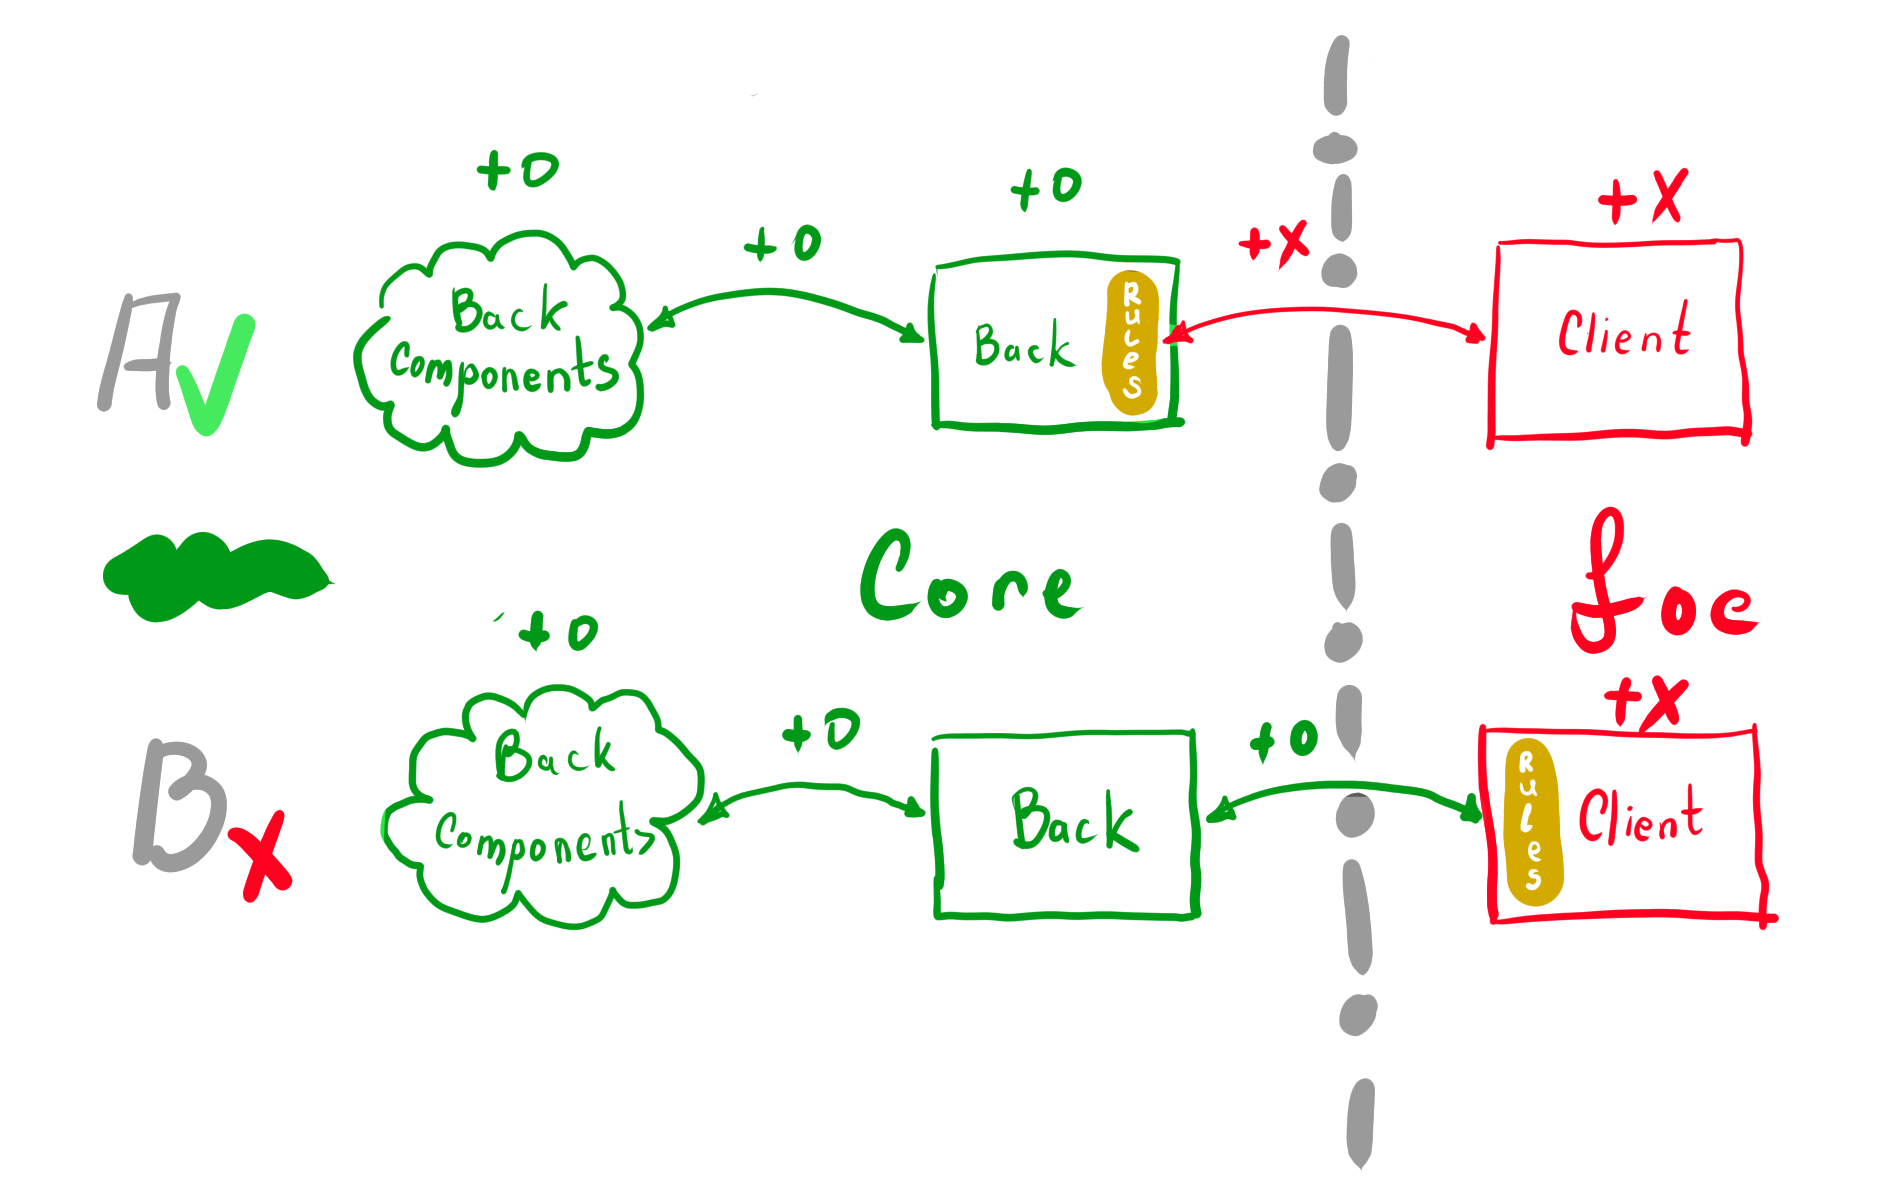
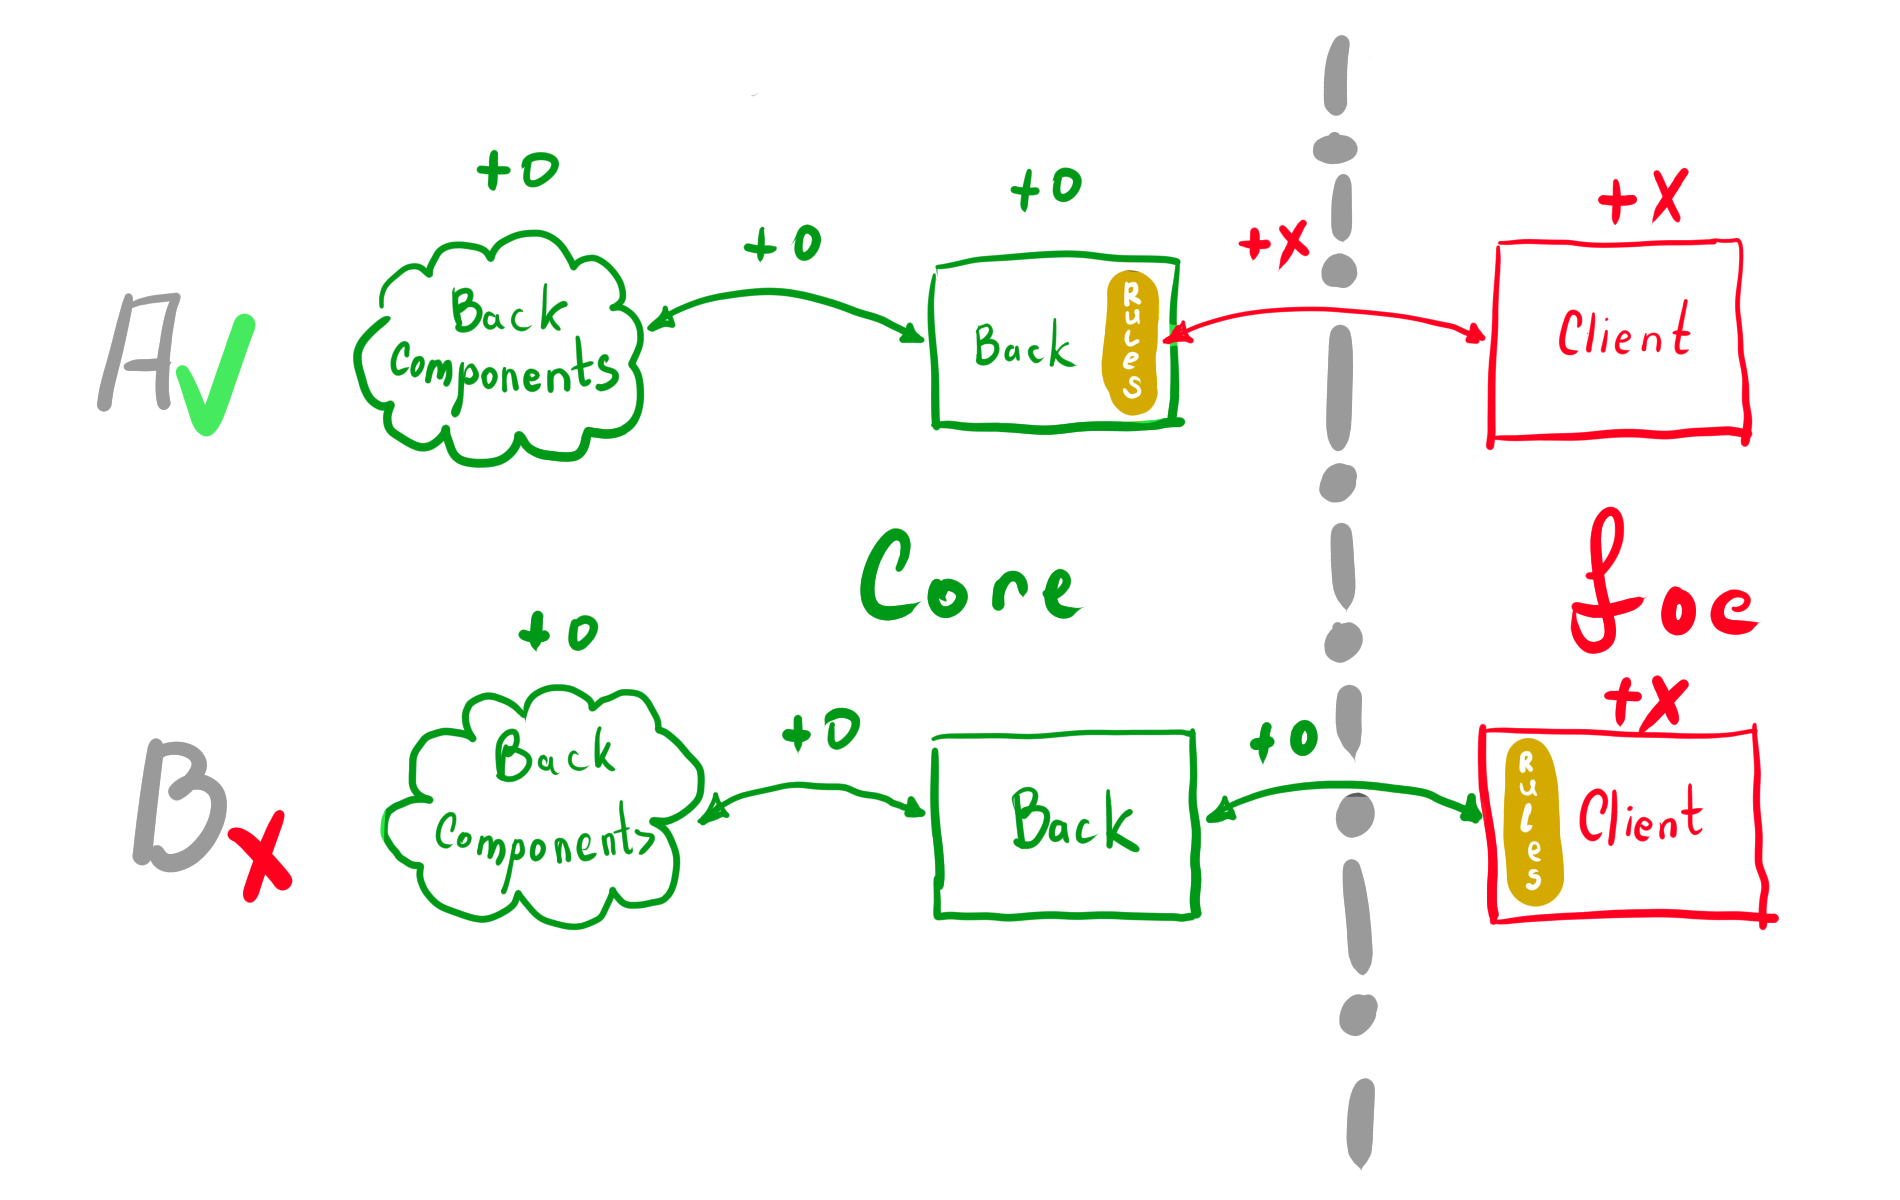
com

Changed region(s): [[0.0311, 0.4317, 0.1863, 0.5242]]

diff --git a/timezones.md b/timezones.md
@@ -1,25 +1,25 @@
 # Таймозны в веб приложении
 
 ## Определения
-+ Client - любое приложение (включая веб браузер), размещенное на клиентском неподкотрольном оборудовани.
++ Client - любое приложение (включая веб браузер), размещенное на клиентском оборудовани.
 + Back - сервис являющийся конечным звеном формирования пользовательского контента и данных.
 + Back components - перечень средств хранения и обработки данных на стороне Back.
-+ Frend - зона контролируемая разработчиком.
++ Core - зона контролируемая разработчиком.
 + Foe - зона контролируемая клиентом.
-+ 
++ TZ - time zone
 
 ## Ситуация
-Предполагаем использования времени UTC+0 для всех сервисов баз данных, локального оборудования прочего, вне зависимости от фактического временного пояса расположения.
+Предполагаем использования времени UTC+0 для всех Back и Back Components, вне зависимости от фактического временного пояса.
 
-Предположение избавляет от необходимости сопряжения временных зон на уровне компонентов back и облегчает задачу управления, является желательным но не обязательным, для рассматриваемой темы.
+Предположение избавляет от необходимости сопряжения временных зон на уровне компонентов Back и облегчает задачу управления. Является желательным но не обязательным, для рассматриваемой темы. В случае различных TZ для Back Components возлагается на Core.
 
 ## Задача
-Реализовать работу клиентов в разных часовых поясах.
+Реализовать работу пользоваетелей на Client в разных часовых поясах. 
 
 ## Варианты
-
 Рассмотрим два варианта перевода времени из UTC+0 в локальную TZ клиента.
 
+![Рассматриваемаые варианты](//images/TimeZoneFrienOrFoe.png)
 ![Рассматриваемаые варианты](https://github.com/johnthesmith/scraps/blob/main/images/TimeZoneFrienOrFoe.png)
 
 ### A. Таймозона на back